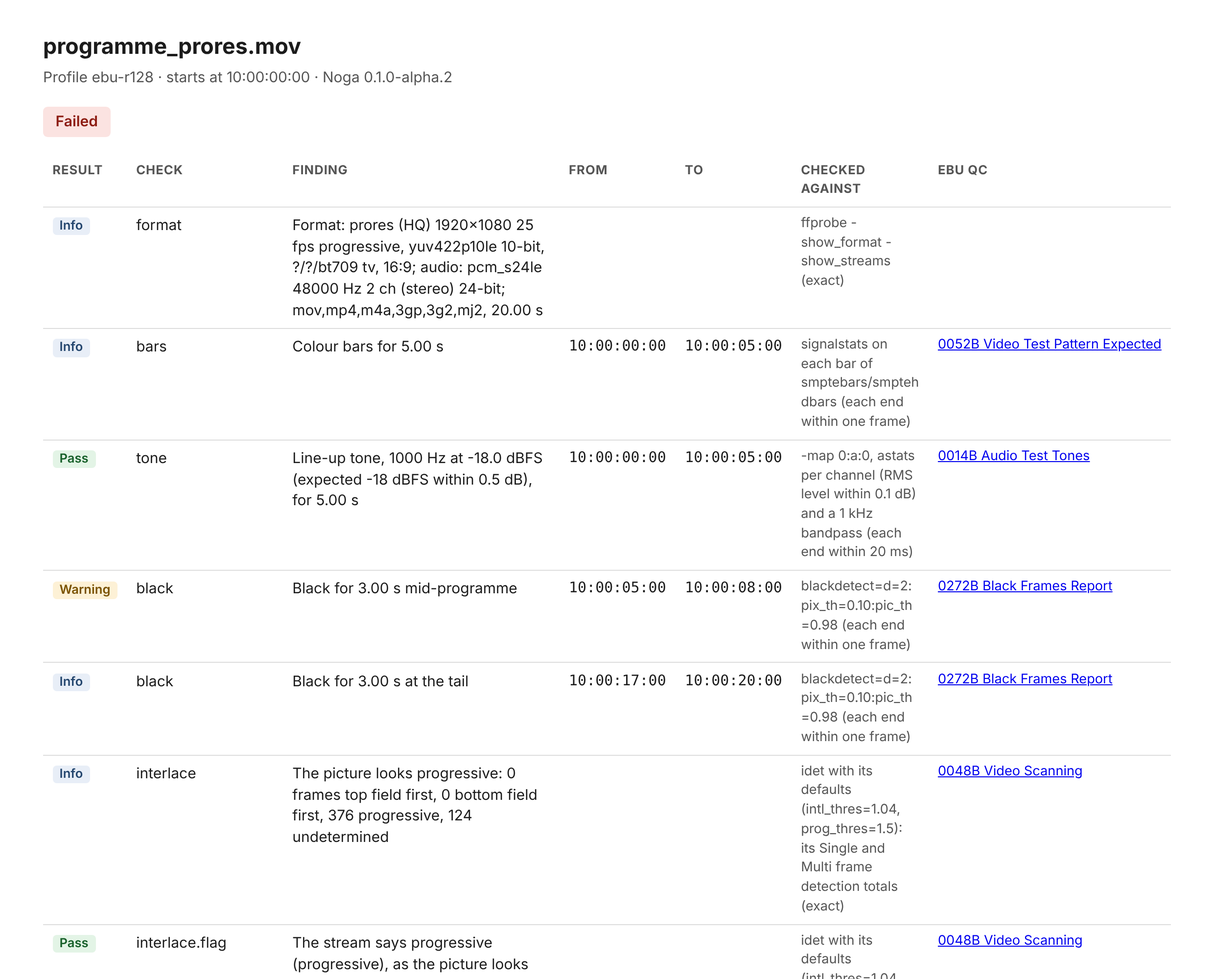
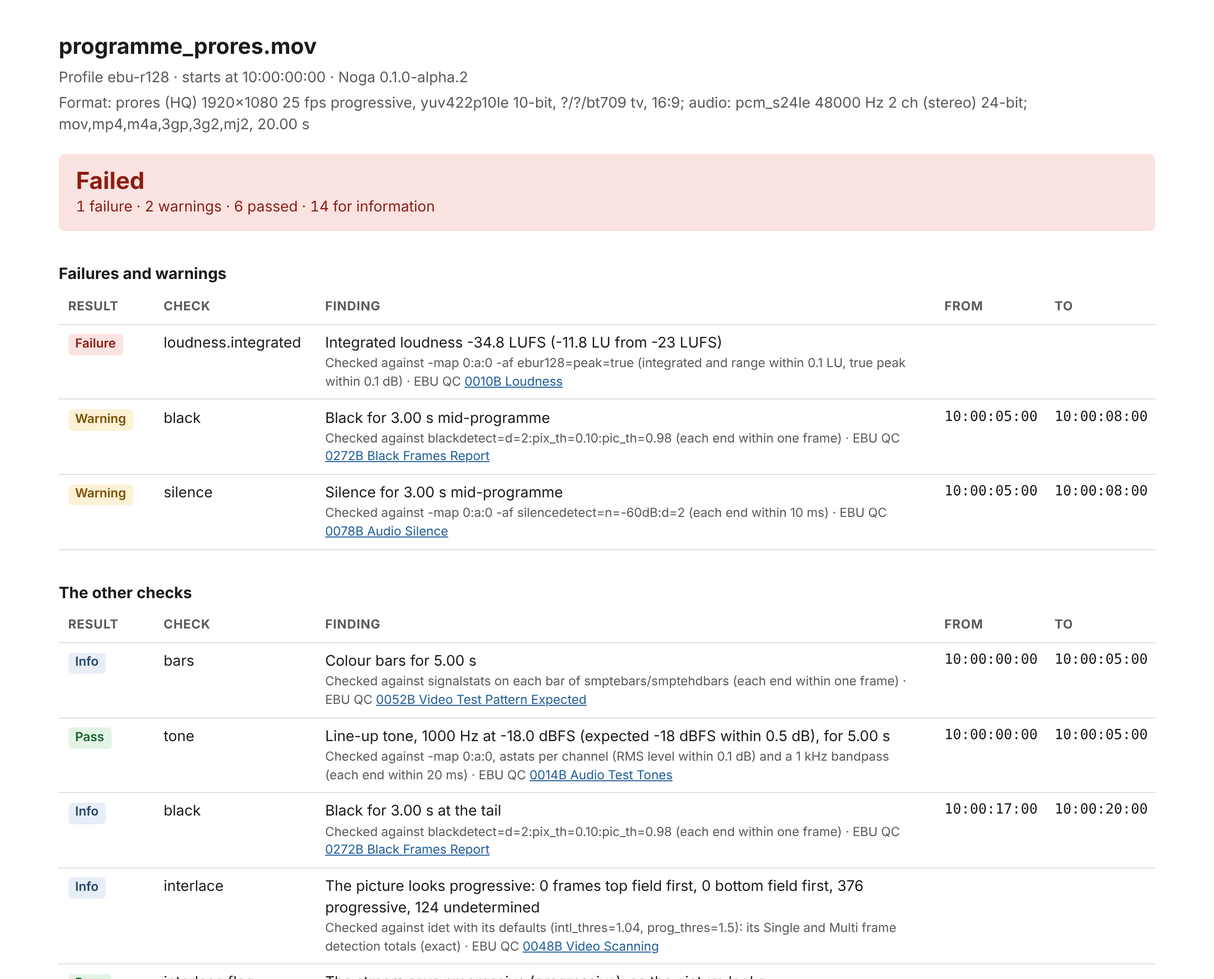
Redo the README's example report and its screenshot in the new layout
The example is regenerated from make-samples.sh's ProRes programme; its noise is
random per run, so the loudness figures move by a tenth.

Claude-Session: https://claude.ai/code/session_015S5PSMNnZM1TYzSRVFoa1F

diff --git a/docs/example/programme_prores.mov.qc.html b/docs/example/programme_prores.mov.qc.html
@@ -5,58 +5,113 @@
 <meta name="viewport" content="width=device-width, initial-scale=1">
 <title>QC: programme_prores.mov</title>
 <style>
-body { font: 15px/1.45 system-ui, sans-serif; margin: 2rem auto; max-width: 72rem; padding: 0 1rem; color: #1b1b1b; }
-h1 { font-size: 1.4rem; margin-bottom: .2rem; }
-.meta { color: #555; margin: 0 0 1.2rem; }
-.verdict { display: inline-block; padding: .3rem .8rem; border-radius: .3rem; font-weight: 600; margin-bottom: 1.2rem; }
-table { border-collapse: collapse; width: 100%; }
-th, td { text-align: left; vertical-align: top; padding: .45rem .6rem; border-bottom: 1px solid #ddd; }
-th { font-size: .8rem; text-transform: uppercase; letter-spacing: .04em; color: #555; }
-td.tc { font-family: ui-monospace, monospace; white-space: nowrap; }
-td.against { color: #555; font-size: .85rem; overflow-wrap: anywhere; }
-td.ebu { font-size: .85rem; white-space: nowrap; }
-.pass { background: #e3f4e6; color: #17602a; }
-.info { background: #e8eef7; color: #24466e; }
-.warning { background: #fdf1d6; color: #7a5200; }
-.failure { background: #fbe3e1; color: #8d1c12; }
-span.sev { padding: .1rem .45rem; border-radius: .25rem; font-size: .8rem; font-weight: 600; }
+:root { color-scheme: light dark;
+  --fg: #1b1b1b; --muted: #5a5a5a; --line: #ddd; --bg: #fff; --head: #f6f6f4; --link: #1f5d99;
+  --pass-bg: #e3f4e6; --pass: #17602a; --info-bg: #e8eef7; --info: #24466e;
+  --warning-bg: #fdf1d6; --warning: #7a5200; --failure-bg: #fbe3e1; --failure: #8d1c12; }
+@media screen and (prefers-color-scheme: dark) { :root {
+  --fg: #e6e6e3; --muted: #a6a6a1; --line: #3a3a38; --bg: #161615; --head: #1f1f1e; --link: #8cbcf0;
+  --pass-bg: #173a22; --pass: #9fdcae; --info-bg: #1c2b40; --info: #a9c4e8;
+  --warning-bg: #3d2f0c; --warning: #f2cf7c; --failure-bg: #4a1a16; --failure: #f6aaa2; } }
+* { box-sizing: border-box; }
+body { font: 15px/1.45 system-ui, sans-serif; margin: 2rem auto; max-width: 72rem; padding: 0 1rem; color: var(--fg); background: var(--bg); }
+h1 { font-size: 1.4rem; margin: 0 0 .2rem; overflow-wrap: anywhere; }
+h2 { font-size: 1rem; margin: 2rem 0 .4rem; }
+a { color: var(--link); }
+.meta, .format { color: var(--muted); margin: 0 0 .3rem; overflow-wrap: anywhere; }
+.verdict { margin: 1.2rem 0 0; padding: .9rem 1.1rem; border-radius: .4rem; }
+.verdict strong { display: block; font-size: 1.5rem; line-height: 1.2; }
+.verdict span { font-variant-numeric: tabular-nums; }
+table { border-collapse: collapse; width: 100%; table-layout: fixed; }
+col.sev { width: 6.5em; } col.check { width: 11em; } col.tc { width: 7.5em; }
+th, td { text-align: left; vertical-align: top; padding: .45rem .6rem; border-bottom: 1px solid var(--line); overflow-wrap: anywhere; }
+th { font-size: .8rem; text-transform: uppercase; letter-spacing: .04em; color: var(--muted); }
+td.tc { font-family: ui-monospace, monospace; font-size: .9rem; font-variant-numeric: tabular-nums; white-space: nowrap; }
+.against { display: block; color: var(--muted); font-size: .8rem; margin-top: .15rem; }
+.against a { white-space: nowrap; }
+.pass { background: var(--pass-bg); color: var(--pass); }
+.info { background: var(--info-bg); color: var(--info); }
+.warning { background: var(--warning-bg); color: var(--warning); }
+.failure { background: var(--failure-bg); color: var(--failure); }
+span.sev { display: inline-block; padding: .1rem .45rem; border-radius: .25rem; font-size: .8rem; font-weight: 600; }
+details { margin-top: 2rem; }
+summary { cursor: pointer; font-weight: 600; }
+summary .against { display: inline; margin-left: .4rem; font-weight: normal; }
+@media (max-width: 40rem) {
+  body { margin: 1rem auto; }
+  table, tbody, tr, td { display: block; width: 100%; }
+  thead, colgroup { display: none; }
+  tr { padding: .5rem 0; border-bottom: 1px solid var(--line); }
+  td { border: 0; padding: .1rem 0; }
+  td.check { display: inline-block; width: auto; margin-left: .4rem; font-weight: 600; }
+  td.sev { display: inline-block; width: auto; }
+  td.tc { display: inline-block; width: auto; margin-right: .6rem; }
+  td.tc:empty { display: none; }
+  td.tc[data-label]::before { content: attr(data-label) " "; font-family: system-ui, sans-serif; color: var(--muted); }
+}
+@media print {
+  body { margin: 0; max-width: none; font-size: 10pt; }
+  a { color: inherit; text-decoration: none; }
+  tr { break-inside: avoid; }
+  thead { display: table-header-group; }
+  .verdict, span.sev { -webkit-print-color-adjust: exact; print-color-adjust: exact; }
+}
 </style>
 </head>
 <body>
+<header>
 <h1>programme_prores.mov</h1>
 <p class="meta">Profile ebu-r128 · starts at 10:00:00:00 · Noga 0.1.0-alpha.2</p>
-<div class="verdict failure">Failed</div>
+<p class="format" title="ffprobe -show_format -show_streams (exact)">Format: prores (HQ) 1920x1080 25 fps progressive, yuv422p10le 10-bit, ?/?/bt709 tv, 16:9; audio: pcm_s24le 48000 Hz 2 ch (stereo) 24-bit; mov,mp4,m4a,3gp,3g2,mj2, 20.00 s</p>
+<div class="verdict failure"><strong>Failed</strong><span>1 failure · 2 warnings · 6 passed · 14 for information</span></div>
+</header>
+<h2>Failures and warnings</h2>
 <table>
-<thead><tr><th>Result</th><th>Check</th><th>Finding</th><th>From</th><th>To</th><th>Checked against</th><th>EBU QC</th></tr></thead>
+<colgroup><col class="sev"><col class="check"><col><col class="tc"><col class="tc"></colgroup>
+<thead><tr><th>Result</th><th>Check</th><th>Finding</th><th>From</th><th>To</th></tr></thead>
 <tbody>
-<tr><td><span class="sev info">Info</span></td><td>format</td><td>Format: prores (HQ) 1920x1080 25 fps progressive, yuv422p10le 10-bit, ?/?/bt709 tv, 16:9; audio: pcm_s24le 48000 Hz 2 ch (stereo) 24-bit; mov,mp4,m4a,3gp,3g2,mj2, 20.00 s</td><td class="tc"></td><td class="tc"></td><td class="against">ffprobe -show_format -show_streams (exact)</td><td class="ebu"></td></tr>
-<tr><td><span class="sev info">Info</span></td><td>bars</td><td>Colour bars for 5.00 s</td><td class="tc">10:00:00:00</td><td class="tc">10:00:05:00</td><td class="against">signalstats on each bar of smptebars/smptehdbars (each end within one frame)</td><td class="ebu"><a href="https://qc.ebu.io/items/0052B" title="EBU QC 0052B v3.0">0052B Video Test Pattern Expected</a></td></tr>
-<tr><td><span class="sev pass">Pass</span></td><td>tone</td><td>Line-up tone, 1000 Hz at -18.0 dBFS (expected -18 dBFS within 0.5 dB), for 5.00 s</td><td class="tc">10:00:00:00</td><td class="tc">10:00:05:00</td><td class="against">-map 0:a:0, astats per channel (RMS level within 0.1 dB) and a 1 kHz bandpass (each end within 20 ms)</td><td class="ebu"><a href="https://qc.ebu.io/items/0014B" title="EBU QC 0014B v2.0">0014B Audio Test Tones</a></td></tr>
-<tr><td><span class="sev warning">Warning</span></td><td>black</td><td>Black for 3.00 s mid-programme</td><td class="tc">10:00:05:00</td><td class="tc">10:00:08:00</td><td class="against">blackdetect=d=2:pix_th=0.10:pic_th=0.98 (each end within one frame)</td><td class="ebu"><a href="https://qc.ebu.io/items/0272B" title="EBU QC 0272B v1.0">0272B Black Frames Report</a></td></tr>
-<tr><td><span class="sev info">Info</span></td><td>black</td><td>Black for 3.00 s at the tail</td><td class="tc">10:00:17:00</td><td class="tc">10:00:20:00</td><td class="against">blackdetect=d=2:pix_th=0.10:pic_th=0.98 (each end within one frame)</td><td class="ebu"><a href="https://qc.ebu.io/items/0272B" title="EBU QC 0272B v1.0">0272B Black Frames Report</a></td></tr>
-<tr><td><span class="sev info">Info</span></td><td>interlace</td><td>The picture looks progressive: 0 frames top field first, 0 bottom field first, 376 progressive, 124 undetermined</td><td class="tc"></td><td class="tc"></td><td class="against">idet with its defaults (intl_thres=1.04, prog_thres=1.5): its Single and Multi frame detection totals (exact)</td><td class="ebu"><a href="https://qc.ebu.io/items/0048B" title="EBU QC 0048B v1.0">0048B Video Scanning</a></td></tr>
-<tr><td><span class="sev pass">Pass</span></td><td>interlace.flag</td><td>The stream says progressive (progressive), as the picture looks</td><td class="tc"></td><td class="tc"></td><td class="against">idet with its defaults (intl_thres=1.04, prog_thres=1.5): its Single and Multi frame detection totals (exact), against ffprobe&#39;s field_order</td><td class="ebu"><a href="https://qc.ebu.io/items/0048B" title="EBU QC 0048B v1.0">0048B Video Scanning</a></td></tr>
-<tr><td><span class="sev pass">Pass</span></td><td>range</td><td>Pixels outside broadcast range: at most 0.67% of the picture (at most 1%)</td><td class="tc">10:00:12:10</td><td class="tc"></td><td class="against">signalstats BRNG on each frame (luma 16-235, chroma 16-240, scaled to the depth; exact), colour bars left out, spans under 1 s apart joined</td><td class="ebu"><a href="https://qc.ebu.io/items/0051B" title="EBU QC 0051B v2.0">0051B Video Signal Levels</a></td></tr>
-<tr><td><span class="sev info">Info</span></td><td>crop</td><td>The picture fills the 1920x1080 frame</td><td class="tc"></td><td class="tc"></td><td class="against">cropdetect=limit=24/255:round=16:skip=2:reset=0 (exact)</td><td class="ebu"><a href="https://qc.ebu.io/items/0015B" title="EBU QC 0015B v3.0">0015B Black Bars</a></td></tr>
-<tr><td><span class="sev info">Info</span></td><td>frames</td><td>All 500 frames intra-coded (I)</td><td class="tc"></td><td class="tc"></td><td class="against">ffprobe -select_streams v:0 -show_frames -show_entries frame=pict_type (each frame&#39;s, exact)</td><td class="ebu"><a href="https://qc.ebu.io/items/0046F" title="EBU QC 0046F v1.0">0046F GOP Length - Structure</a></td></tr>
-<tr><td><span class="sev info">Info</span></td><td>keyframes</td><td>Every frame is a keyframe (500)</td><td class="tc"></td><td class="tc"></td><td class="against">ffprobe -select_streams v:0 -show_packets -show_entries packet=pts_time,flags (the K packets, exact)</td><td class="ebu"><a href="https://qc.ebu.io/items/0046F" title="EBU QC 0046F v1.0">0046F GOP Length - Structure</a></td></tr>
-<tr><td><span class="sev info">Info</span></td><td>bitrate</td><td>Video bitrate 35.4 Mb/s on average, at most 70.6 Mb/s in a second</td><td class="tc">10:00:15:00</td><td class="tc">10:00:16:00</td><td class="against">ffprobe -select_streams v:0 -show_packets -show_entries packet=pts_time,size (summed per second, exact)</td><td class="ebu"></td></tr>
-<tr><td><span class="sev info">Info</span></td><td>shots</td><td>4 shots, the shortest 3.00 s</td><td class="tc"></td><td class="tc"></td><td class="against">PySceneDetect detect-adaptive with its defaults, through ShotDetector (which matches it exactly in its own CI)</td><td class="ebu"></td></tr>
-<tr><td><span class="sev info">Info</span></td><td>shot</td><td>Shot 1, 5.00 s</td><td class="tc">10:00:00:00</td><td class="tc">10:00:05:00</td><td class="against">PySceneDetect detect-adaptive with its defaults, through ShotDetector (which matches it exactly in its own CI)</td><td class="ebu"></td></tr>
-<tr><td><span class="sev info">Info</span></td><td>shot</td><td>Shot 2, 3.00 s</td><td class="tc">10:00:05:00</td><td class="tc">10:00:08:00</td><td class="against">PySceneDetect detect-adaptive with its defaults, through ShotDetector (which matches it exactly in its own CI)</td><td class="ebu"></td></tr>
-<tr><td><span class="sev info">Info</span></td><td>shot</td><td>Shot 3, 9.00 s</td><td class="tc">10:00:08:00</td><td class="tc">10:00:17:00</td><td class="against">PySceneDetect detect-adaptive with its defaults, through ShotDetector (which matches it exactly in its own CI)</td><td class="ebu"></td></tr>
-<tr><td><span class="sev info">Info</span></td><td>shot</td><td>Shot 4, 3.00 s</td><td class="tc">10:00:17:00</td><td class="tc">10:00:20:00</td><td class="against">PySceneDetect detect-adaptive with its defaults, through ShotDetector (which matches it exactly in its own CI)</td><td class="ebu"></td></tr>
-<tr><td><span class="sev warning">Warning</span></td><td>silence</td><td>Silence for 3.00 s mid-programme</td><td class="tc">10:00:05:00</td><td class="tc">10:00:08:00</td><td class="against">-map 0:a:0 -af silencedetect=n=-60dB:d=2 (each end within 10 ms)</td><td class="ebu"><a href="https://qc.ebu.io/items/0078B" title="EBU QC 0078B v3.0">0078B Audio Silence</a></td></tr>
-<tr><td><span class="sev info">Info</span></td><td>silence</td><td>Silence for 3.00 s at the tail</td><td class="tc">10:00:17:00</td><td class="tc">10:00:20:00</td><td class="against">-map 0:a:0 -af silencedetect=n=-60dB:d=2 (each end within 10 ms)</td><td class="ebu"><a href="https://qc.ebu.io/items/0078B" title="EBU QC 0078B v3.0">0078B Audio Silence</a></td></tr>
-<tr><td><span class="sev pass">Pass</span></td><td>channel.phase</td><td>Phase correlation of channels 1 and 2: 1.00 (at least -0.3)</td><td class="tc"></td><td class="tc"></td><td class="against">-map 0:a:0 -af pan=stereo|c0=c0|c1=c1,asetnsamples=n=4800,aphasemeter=video=0 (the mean of lavfi.aphasemeter.phase, within 0.01)</td><td class="ebu"><a href="https://qc.ebu.io/items/0012B" title="EBU QC 0012B v2.0">0012B Audio Phase Error</a></td></tr>
-<tr><td><span class="sev info">Info</span></td><td>channel.dual-mono</td><td>Channels 1 and 2 are the same (dual mono)</td><td class="tc"></td><td class="tc"></td><td class="against">-map 0:a:0 -af astats per channel (RMS level within 0.1 dB) and aphasemeter (mean phase above 0.999)</td><td class="ebu"><a href="https://qc.ebu.io/items/0124B" title="EBU QC 0124B v2.0">0124B Mono Audio</a></td></tr>
-<tr><td><span class="sev pass">Pass</span></td><td>channel.clipping</td><td>No clipping: no run of 3 or more samples at full scale on any channel</td><td class="tc"></td><td class="tc"></td><td class="against">-map 0:a:0 -af astats per channel: Peak count, its samples at full scale when it reaches it up and down (exact; runs of 3 or more of them are clipping)</td><td class="ebu"><a href="https://qc.ebu.io/items/0005B" title="EBU QC 0005B v2.0">0005B Audio Digital Clipping</a></td></tr>
-<tr><td><span class="sev info">Info</span></td><td>loudness.from</td><td>Loudness is measured after the line-up tone</td><td class="tc">10:00:05:00</td><td class="tc">10:00:20:00</td><td class="against">ffmpeg -ss 5 -i FILE -map 0:a:0 -af ebur128=peak=true (the same figures)</td><td class="ebu"><a href="https://qc.ebu.io/items/0010B" title="EBU QC 0010B v2.0">0010B Loudness</a></td></tr>
-<tr><td><span class="sev info">Info</span></td><td>audio</td><td>Audio measured: track 1 of 1: pcm_s24le, 2 channels (stereo)</td><td class="tc"></td><td class="tc"></td><td class="against">ffprobe -show_streams (the first audio stream: ffmpeg&#39;s 0:a:0)</td><td class="ebu"><a href="https://qc.ebu.io/items/0004F" title="EBU QC 0004F v2.0">0004F Audio Channel Count</a></td></tr>
-<tr><td><span class="sev failure">Failure</span></td><td>loudness.integrated</td><td>Integrated loudness -34.7 LUFS (-11.7 LU from -23 LUFS)</td><td class="tc"></td><td class="tc"></td><td class="against">-map 0:a:0 -af ebur128=peak=true (integrated and range within 0.1 LU, true peak within 0.1 dB)</td><td class="ebu"><a href="https://qc.ebu.io/items/0010B" title="EBU QC 0010B v2.0">0010B Loudness</a></td></tr>
-<tr><td><span class="sev info">Info</span></td><td>loudness.range</td><td>Loudness range 6.9 LU</td><td class="tc"></td><td class="tc"></td><td class="against">-map 0:a:0 -af ebur128=peak=true (integrated and range within 0.1 LU, true peak within 0.1 dB)</td><td class="ebu"><a href="https://qc.ebu.io/items/0010B" title="EBU QC 0010B v2.0">0010B Loudness</a></td></tr>
-<tr><td><span class="sev pass">Pass</span></td><td>loudness.true-peak</td><td>True peak -24.1 dBTP (at most -1.0 dBTP)</td><td class="tc"></td><td class="tc"></td><td class="against">-map 0:a:0 -af ebur128=peak=true (integrated and range within 0.1 LU, true peak within 0.1 dB)</td><td class="ebu"><a href="https://qc.ebu.io/items/0084B" title="EBU QC 0084B v1.0">0084B Audio Peaks (TP)</a></td></tr>
+<tr><td class="sev"><span class="sev failure">Failure</span></td><td class="check">loudness.integrated</td><td>Integrated loudness -34.8 LUFS (-11.8 LU from -23 LUFS)<span class="against">Checked against -map 0:a:0 -af ebur128=peak=true (integrated and range within 0.1 LU, true peak within 0.1 dB) · EBU QC <a href="https://qc.ebu.io/items/0010B" title="EBU QC 0010B v2.0">0010B Loudness</a></span></td><td class="tc"></td><td class="tc"></td></tr>
+<tr><td class="sev"><span class="sev warning">Warning</span></td><td class="check">black</td><td>Black for 3.00 s mid-programme<span class="against">Checked against blackdetect=d=2:pix_th=0.10:pic_th=0.98 (each end within one frame) · EBU QC <a href="https://qc.ebu.io/items/0272B" title="EBU QC 0272B v1.0">0272B Black Frames Report</a></span></td><td class="tc" data-label="From">10:00:05:00</td><td class="tc" data-label="To">10:00:08:00</td></tr>
+<tr><td class="sev"><span class="sev warning">Warning</span></td><td class="check">silence</td><td>Silence for 3.00 s mid-programme<span class="against">Checked against -map 0:a:0 -af silencedetect=n=-60dB:d=2 (each end within 10 ms) · EBU QC <a href="https://qc.ebu.io/items/0078B" title="EBU QC 0078B v3.0">0078B Audio Silence</a></span></td><td class="tc" data-label="From">10:00:05:00</td><td class="tc" data-label="To">10:00:08:00</td></tr>
 </tbody>
 </table>
+<h2>The other checks</h2>
+<table>
+<colgroup><col class="sev"><col class="check"><col><col class="tc"><col class="tc"></colgroup>
+<thead><tr><th>Result</th><th>Check</th><th>Finding</th><th>From</th><th>To</th></tr></thead>
+<tbody>
+<tr><td class="sev"><span class="sev info">Info</span></td><td class="check">bars</td><td>Colour bars for 5.00 s<span class="against">Checked against signalstats on each bar of smptebars/smptehdbars (each end within one frame) · EBU QC <a href="https://qc.ebu.io/items/0052B" title="EBU QC 0052B v3.0">0052B Video Test Pattern Expected</a></span></td><td class="tc" data-label="From">10:00:00:00</td><td class="tc" data-label="To">10:00:05:00</td></tr>
+<tr><td class="sev"><span class="sev pass">Pass</span></td><td class="check">tone</td><td>Line-up tone, 1000 Hz at -18.0 dBFS (expected -18 dBFS within 0.5 dB), for 5.00 s<span class="against">Checked against -map 0:a:0, astats per channel (RMS level within 0.1 dB) and a 1 kHz bandpass (each end within 20 ms) · EBU QC <a href="https://qc.ebu.io/items/0014B" title="EBU QC 0014B v2.0">0014B Audio Test Tones</a></span></td><td class="tc" data-label="From">10:00:00:00</td><td class="tc" data-label="To">10:00:05:00</td></tr>
+<tr><td class="sev"><span class="sev info">Info</span></td><td class="check">black</td><td>Black for 3.00 s at the tail<span class="against">Checked against blackdetect=d=2:pix_th=0.10:pic_th=0.98 (each end within one frame) · EBU QC <a href="https://qc.ebu.io/items/0272B" title="EBU QC 0272B v1.0">0272B Black Frames Report</a></span></td><td class="tc" data-label="From">10:00:17:00</td><td class="tc" data-label="To">10:00:20:00</td></tr>
+<tr><td class="sev"><span class="sev info">Info</span></td><td class="check">interlace</td><td>The picture looks progressive: 0 frames top field first, 0 bottom field first, 376 progressive, 124 undetermined<span class="against">Checked against idet with its defaults (intl_thres=1.04, prog_thres=1.5): its Single and Multi frame detection totals (exact) · EBU QC <a href="https://qc.ebu.io/items/0048B" title="EBU QC 0048B v1.0">0048B Video Scanning</a></span></td><td class="tc"></td><td class="tc"></td></tr>
+<tr><td class="sev"><span class="sev pass">Pass</span></td><td class="check">interlace.flag</td><td>The stream says progressive (progressive), as the picture looks<span class="against">Checked against idet with its defaults (intl_thres=1.04, prog_thres=1.5): its Single and Multi frame detection totals (exact), against ffprobe&#39;s field_order · EBU QC <a href="https://qc.ebu.io/items/0048B" title="EBU QC 0048B v1.0">0048B Video Scanning</a></span></td><td class="tc"></td><td class="tc"></td></tr>
+<tr><td class="sev"><span class="sev pass">Pass</span></td><td class="check">range</td><td>Pixels outside broadcast range: at most 0.67% of the picture (at most 1%)<span class="against">Checked against signalstats BRNG on each frame (luma 16-235, chroma 16-240, scaled to the depth; exact), colour bars left out, spans under 1 s apart joined · EBU QC <a href="https://qc.ebu.io/items/0051B" title="EBU QC 0051B v2.0">0051B Video Signal Levels</a></span></td><td class="tc" data-label="From">10:00:12:10</td><td class="tc"></td></tr>
+<tr><td class="sev"><span class="sev info">Info</span></td><td class="check">crop</td><td>The picture fills the 1920x1080 frame<span class="against">Checked against cropdetect=limit=24/255:round=16:skip=2:reset=0 (exact) · EBU QC <a href="https://qc.ebu.io/items/0015B" title="EBU QC 0015B v3.0">0015B Black Bars</a></span></td><td class="tc"></td><td class="tc"></td></tr>
+<tr><td class="sev"><span class="sev info">Info</span></td><td class="check">frames</td><td>All 500 frames intra-coded (I)<span class="against">Checked against ffprobe -select_streams v:0 -show_frames -show_entries frame=pict_type (each frame&#39;s, exact) · EBU QC <a href="https://qc.ebu.io/items/0046F" title="EBU QC 0046F v1.0">0046F GOP Length - Structure</a></span></td><td class="tc"></td><td class="tc"></td></tr>
+<tr><td class="sev"><span class="sev info">Info</span></td><td class="check">keyframes</td><td>Every frame is a keyframe (500)<span class="against">Checked against ffprobe -select_streams v:0 -show_packets -show_entries packet=pts_time,flags (the K packets, exact) · EBU QC <a href="https://qc.ebu.io/items/0046F" title="EBU QC 0046F v1.0">0046F GOP Length - Structure</a></span></td><td class="tc"></td><td class="tc"></td></tr>
+<tr><td class="sev"><span class="sev info">Info</span></td><td class="check">bitrate</td><td>Video bitrate 35.4 Mb/s on average, at most 70.6 Mb/s in a second<span class="against">Checked against ffprobe -select_streams v:0 -show_packets -show_entries packet=pts_time,size (summed per second, exact)</span></td><td class="tc" data-label="From">10:00:15:00</td><td class="tc" data-label="To">10:00:16:00</td></tr>
+<tr><td class="sev"><span class="sev info">Info</span></td><td class="check">silence</td><td>Silence for 3.00 s at the tail<span class="against">Checked against -map 0:a:0 -af silencedetect=n=-60dB:d=2 (each end within 10 ms) · EBU QC <a href="https://qc.ebu.io/items/0078B" title="EBU QC 0078B v3.0">0078B Audio Silence</a></span></td><td class="tc" data-label="From">10:00:17:00</td><td class="tc" data-label="To">10:00:20:00</td></tr>
+<tr><td class="sev"><span class="sev pass">Pass</span></td><td class="check">channel.phase</td><td>Phase correlation of channels 1 and 2: 1.00 (at least -0.3)<span class="against">Checked against -map 0:a:0 -af pan=stereo|c0=c0|c1=c1,asetnsamples=n=4800,aphasemeter=video=0 (the mean of lavfi.aphasemeter.phase, within 0.01) · EBU QC <a href="https://qc.ebu.io/items/0012B" title="EBU QC 0012B v2.0">0012B Audio Phase Error</a></span></td><td class="tc"></td><td class="tc"></td></tr>
+<tr><td class="sev"><span class="sev info">Info</span></td><td class="check">channel.dual-mono</td><td>Channels 1 and 2 are the same (dual mono)<span class="against">Checked against -map 0:a:0 -af astats per channel (RMS level within 0.1 dB) and aphasemeter (mean phase above 0.999) · EBU QC <a href="https://qc.ebu.io/items/0124B" title="EBU QC 0124B v2.0">0124B Mono Audio</a></span></td><td class="tc"></td><td class="tc"></td></tr>
+<tr><td class="sev"><span class="sev pass">Pass</span></td><td class="check">channel.clipping</td><td>No clipping: no run of 3 or more samples at full scale on any channel<span class="against">Checked against -map 0:a:0 -af astats per channel: Peak count, its samples at full scale when it reaches it up and down (exact; runs of 3 or more of them are clipping) · EBU QC <a href="https://qc.ebu.io/items/0005B" title="EBU QC 0005B v2.0">0005B Audio Digital Clipping</a></span></td><td class="tc"></td><td class="tc"></td></tr>
+<tr><td class="sev"><span class="sev info">Info</span></td><td class="check">loudness.from</td><td>Loudness is measured after the line-up tone<span class="against">Checked against ffmpeg -ss 5 -i FILE -map 0:a:0 -af ebur128=peak=true (the same figures) · EBU QC <a href="https://qc.ebu.io/items/0010B" title="EBU QC 0010B v2.0">0010B Loudness</a></span></td><td class="tc" data-label="From">10:00:05:00</td><td class="tc" data-label="To">10:00:20:00</td></tr>
+<tr><td class="sev"><span class="sev info">Info</span></td><td class="check">audio</td><td>Audio measured: track 1 of 1: pcm_s24le, 2 channels (stereo)<span class="against">Checked against ffprobe -show_streams (the first audio stream: ffmpeg&#39;s 0:a:0) · EBU QC <a href="https://qc.ebu.io/items/0004F" title="EBU QC 0004F v2.0">0004F Audio Channel Count</a></span></td><td class="tc"></td><td class="tc"></td></tr>
+<tr><td class="sev"><span class="sev info">Info</span></td><td class="check">loudness.range</td><td>Loudness range 7.0 LU<span class="against">Checked against -map 0:a:0 -af ebur128=peak=true (integrated and range within 0.1 LU, true peak within 0.1 dB) · EBU QC <a href="https://qc.ebu.io/items/0010B" title="EBU QC 0010B v2.0">0010B Loudness</a></span></td><td class="tc"></td><td class="tc"></td></tr>
+<tr><td class="sev"><span class="sev pass">Pass</span></td><td class="check">loudness.true-peak</td><td>True peak -24.9 dBTP (at most -1.0 dBTP)<span class="against">Checked against -map 0:a:0 -af ebur128=peak=true (integrated and range within 0.1 LU, true peak within 0.1 dB) · EBU QC <a href="https://qc.ebu.io/items/0084B" title="EBU QC 0084B v1.0">0084B Audio Peaks (TP)</a></span></td><td class="tc"></td><td class="tc"></td></tr>
+</tbody>
+</table>
+<details>
+<summary>4 shots, the shortest 3.00 s<span class="against">PySceneDetect detect-adaptive with its defaults, through ShotDetector (which matches it exactly in its own CI)</span></summary>
+<table>
+<colgroup><col class="sev"><col class="check"><col><col class="tc"><col class="tc"></colgroup>
+<thead><tr><th>Result</th><th>Check</th><th>Finding</th><th>From</th><th>To</th></tr></thead>
+<tbody>
+<tr><td class="sev"><span class="sev info">Info</span></td><td class="check">shot</td><td>Shot 1, 5.00 s<span class="against">Checked against PySceneDetect detect-adaptive with its defaults, through ShotDetector (which matches it exactly in its own CI)</span></td><td class="tc" data-label="From">10:00:00:00</td><td class="tc" data-label="To">10:00:05:00</td></tr>
+<tr><td class="sev"><span class="sev info">Info</span></td><td class="check">shot</td><td>Shot 2, 3.00 s<span class="against">Checked against PySceneDetect detect-adaptive with its defaults, through ShotDetector (which matches it exactly in its own CI)</span></td><td class="tc" data-label="From">10:00:05:00</td><td class="tc" data-label="To">10:00:08:00</td></tr>
+<tr><td class="sev"><span class="sev info">Info</span></td><td class="check">shot</td><td>Shot 3, 9.00 s<span class="against">Checked against PySceneDetect detect-adaptive with its defaults, through ShotDetector (which matches it exactly in its own CI)</span></td><td class="tc" data-label="From">10:00:08:00</td><td class="tc" data-label="To">10:00:17:00</td></tr>
+<tr><td class="sev"><span class="sev info">Info</span></td><td class="check">shot</td><td>Shot 4, 3.00 s<span class="against">Checked against PySceneDetect detect-adaptive with its defaults, through ShotDetector (which matches it exactly in its own CI)</span></td><td class="tc" data-label="From">10:00:17:00</td><td class="tc" data-label="To">10:00:20:00</td></tr>
+</tbody>
+</table>
+</details>
 </body>
 </html>
